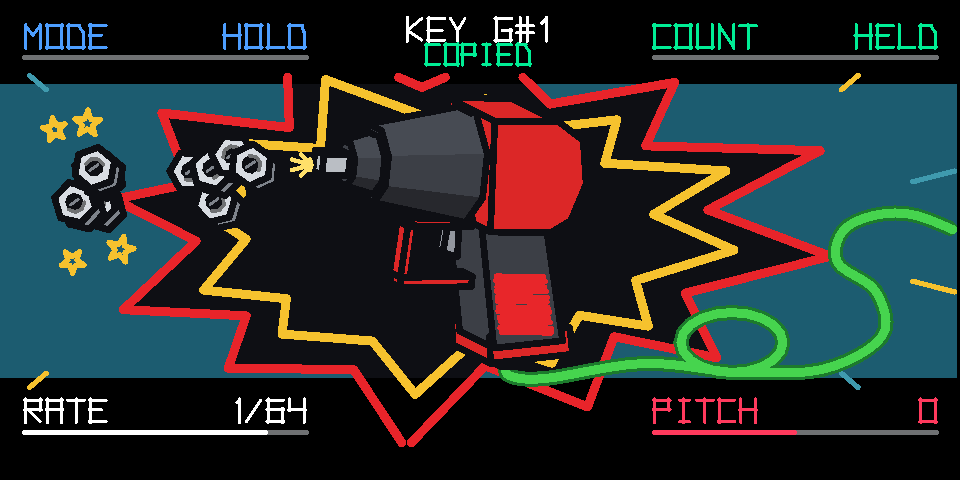
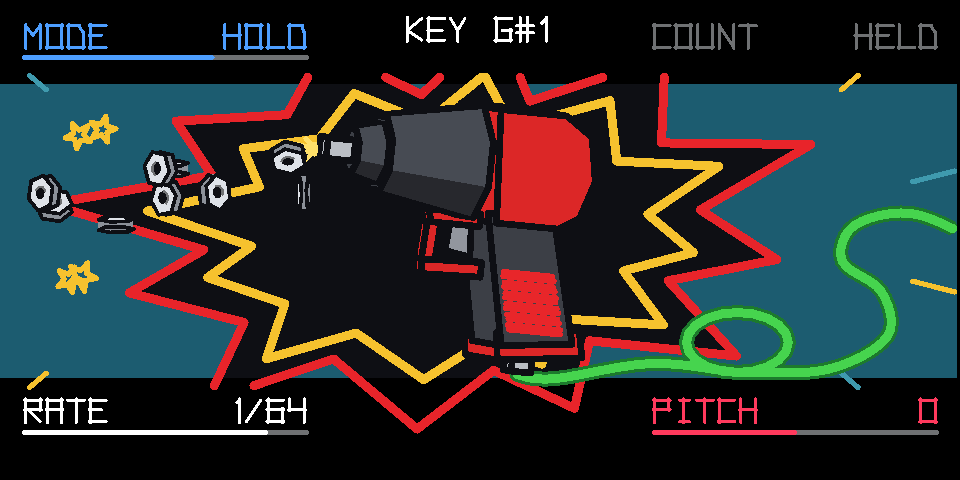
UZ-1 0.2.1: tumbling nuts, a tighter trigger guard, brief copy/paste notes
- The nuts tumble as they fly: a four-frame flip book (face on, at an
  angle, edge on, at the other angle), each about its own axis, in its own
  direction and speed. One size for all, with lighter outlines.
- The trigger guard is smaller and chunkier around a bigger trigger, with
  a sliver of background showing between them.
- COPIED (with the key) and PASTED show for 1.5 s, then clear; COPIED
  used to stay on screen for good.

Changed region(s): [[0.0312, 0.0625, 1.0, 0.9375], [0.6562, 0.0312, 1.0, 0.125], [0.0312, 0.0938, 0.2188, 0.125]]

diff --git a/plugin/uz1/uz1.c b/plugin/uz1/uz1.c
@@ -254,6 +254,8 @@ static voice_t tv[OP1_VOICES];
 static uint32_t stamp_next = 1;
 static volatile uint8_t sel;                  /* the page shown: the last key played */
 static volatile uint8_t have_clip, clip_key;     /* a key copied (blue push), which one */
+static volatile uint8_t note_kind;               /* the last copy (1) or paste (2), for the screen's brief note */
+static volatile uint32_t note_seq;
 static volatile uint32_t clip;
 
 /* for the screen: every hit (its gain and pitch) into a ring, and how many hits the newest pattern has left */
@@ -483,8 +485,8 @@ static int uz_input(int page, int ev, int a, int b)
                     if (s > 7) s = SRC_AUTO;
                     snd.src = (uint8_t)s; changed = 1; src_force = 1;
                 }
-            } else if (a == 0) { clip = snd.cfg[k]; clip_key = (uint8_t)k; have_clip = 1; }   /* blue: copy this key */
-            else if (a == 1) { if (have_clip) { snd.cfg[k] = clip; changed = 1; } }        /* green: paste over it */
+            } else if (a == 0) { clip = snd.cfg[k]; clip_key = (uint8_t)k; have_clip = 1; note_kind = 1; note_seq++; }   /* blue: copy */
+            else if (a == 1) { if (have_clip) { snd.cfg[k] = clip; changed = 1; note_kind = 2; note_seq++; } }          /* green: paste */
             else if (a == 3 && shift) { snd.cfg[k] = CFG_DEFAULT; changed = 1; }
         }
         if (changed) sound_store(slot);
@@ -662,7 +664,7 @@ static void labels(void *r, const char *const name[4], char txt[4][12], const in
 static uint32_t hash_str(uint32_t h, const char *s) { while (*s) h = (h ^ (uint8_t)*s++) * 16777619u; return (h ^ 0xFF) * 16777619u; }
 
 /* ---- the bolts in flight ---- */
-typedef struct { int32_t x, y, vx, vy, r; int16_t a, va; uint8_t on; } bolt_t;
+typedef struct { int32_t x, y, vx, vy, r; int16_t a, va, tt, tp; uint8_t on, frame, axis; int8_t dir; } bolt_t;   /* tt, tp: ms into the frame, ms a frame */
 static bolt_t bolts[24];
 static uint32_t seen_w, rnd = 1;
 static int32_t recoil, flash;                 /* Q10 px; ms */
@@ -670,33 +672,46 @@ static uint32_t wig_a, wig_b, wig_ta, wig_tb; /* the wiggle's phases and where t
 static int32_t fire_e, shake_x, shake_y;     /* how hard it is firing (Q10, decays), the shake (Q10 px) */
 static volatile int vis_bolts;                /* for the tests */
 static inline int32_t rnd_px(int32_t span) { rnd = rnd * 1664525u + 1013904223u; return (int32_t)((rnd >> 16) % (uint32_t)(2 * span + 1)) - span; }
-/* a cartoon hex nut, tumbling: its back face (thickness, toward the lower right), the lit front face, thick ink,
- * and the threaded hole: dark, with a highlight on its far rim and one turn of thread */
+/* a cartoon hex nut, tumbling as a four-frame flip book: face on, at an angle (its side showing one way), edge on,
+ * at an angle the other way, and round again, about its own axis (sideways or end over end) and in its own direction
+ * and speed, picked as it's fired. A frame: the face squashed across the tumble (Q10) and the thickness showing
+ * beside it (Q10 of the radius, + one way, - the other). Drawn as the back face and the sides, then the lit front
+ * face, ink, and the threaded hole (dark, a lit rim inside; hidden edge on) */
+static const int16_t NUT_FRAME[4][2] = {
+    { 1024,    0 },                           /* face on */
+    {  720,  430 },                           /* at an angle, the side showing */
+    {  170,  600 },                           /* edge on */
+    {  720, -430 },                           /* at an angle, the other side showing */
+};
 static void bolt_draw(void *r, const bolt_t *b)
 {
-    static const uint8_t NUT_LIT[4] = { 0xD8, 0xDC, 0xE2, 0xFF }, NUT_SIDE[4] = { 0x7E, 0x83, 0x8B, 0xFF };
-    const int32_t rr = b->r, ox = rr * 2 / 5, oy = rr * 3 / 10;
+    static const uint8_t NUT_LIT[4] = { 0xDE, 0xE2, 0xE8, 0xFF }, NUT_SIDE[4] = { 0x8C, 0x91, 0x99, 0xFF };
+    const int16_t *v = NUT_FRAME[b->frame & 3];
+    const int32_t rr = b->r, sq = rr * v[0] >> 10, th = rr * v[1] >> 10;
+    const int32_t rx = b->axis ? rr : sq, ry = b->axis ? sq : rr;           /* axis 0: turns sideways, 1: end over end */
+    const int32_t ox = b->axis ? 0 : th, oy = b->axis ? th : 0;
     op1_pt f[6], k[6];
     for (int i = 0; i < 6; i++) {
         const int32_t t = b->a + i * 8192 / 6;
-        f[i].x = b->x + ((rr * tcos(t)) >> 15); f[i].y = b->y + ((rr * tsin(t)) >> 15);
+        f[i].x = b->x + ((rx * tcos(t)) >> 15); f[i].y = b->y + ((ry * tsin(t)) >> 15);
         k[i].x = f[i].x + ox; k[i].y = f[i].y + oy;
     }
-    fill_poly(k, 6, NUT_SIDE);
-    for (int i = 0; i < 6; i++) {                             /* the side between the faces */
-        const op1_pt q[4] = { f[i], f[(i + 1) % 6], k[(i + 1) % 6], k[i] };
-        fill_poly(q, 4, NUT_SIDE);
+    if (th) {
+        fill_poly(k, 6, NUT_SIDE);
+        for (int i = 0; i < 6; i++) {                         /* the sides between the faces */
+            const op1_pt q[4] = { f[i], f[(i + 1) % 6], k[(i + 1) % 6], k[i] };
+            fill_poly(q, 4, NUT_SIDE);
+        }
+        for (int i = 0, j = 5; i < 6; j = i++) op1_raster_line(r, &k[j], &k[i], 0x500, COL_INK);   /* the back's edge */
     }
-    for (int i = 0, j = 5; i < 6; j = i++) op1_raster_line(r, &k[j], &k[i], 0x900, COL_INK);
     fill_poly(f, 6, NUT_LIT);
-    for (int i = 0, j = 5; i < 6; j = i++) op1_raster_line(r, &f[j], &f[i], 0x900, COL_INK);
-    op1_pt h[8];                                               /* the hole */
-    const int32_t hr = rr * 9 / 20;
-    for (int i = 0; i < 8; i++) { const int32_t t = b->a + i * 1024; h[i].x = b->x + ((hr * tcos(t)) >> 15); h[i].y = b->y + ((hr * tsin(t)) >> 15); }
+    for (int i = 0, j = 5; i < 6; j = i++) op1_raster_line(r, &f[j], &f[i], 0x500, COL_INK);
+    if (v[0] < 400) return;                                    /* edge on: no hole to see */
+    op1_pt h[8];
+    const int32_t hx = rx * 3 / 8, hy = ry * 3 / 8;
+    for (int i = 0; i < 8; i++) { const int32_t t = b->a + i * 1024; h[i].x = b->x + ((hx * tcos(t)) >> 15); h[i].y = b->y + ((hy * tsin(t)) >> 15); }
     fill_poly(h, 8, COL_INK);
-    for (int i = 5; i < 8; i++) op1_raster_line(r, &h[i], &h[(i + 1) & 7], 0x500, COL_GREY);   /* the lit rim inside */
-    const op1_pt t0 = { b->x - hr / 2, b->y + hr / 4 }, t1 = { b->x + hr / 3, b->y - hr / 3 };
-    op1_raster_line(r, &t0, &t1, 0x400, NUT_SIDE);                                             /* a thread */
+    for (int i = 5; i < 8; i++) op1_raster_line(r, &h[i], &h[(i + 1) & 7], 0x300, COL_GREY);   /* the lit rim inside */
 }
 
 /* ---- the wrench: a small 3D model, drawn as a cartoon ----
@@ -771,10 +786,10 @@ static void lathe_x(int x0, int x1, int cy, int r0, int r1, int sides, int a0, i
 }
 static const int8_t P_HOUSING[] = { 0, -42, 34, -42, 48, -33, 52, -12, 46, 6, 36, 12, 4, 12 };
 static const int8_t P_GRIP[]    = { 2, 8, 36, 8, 52, 66, 16, 70 };
-static const int8_t P_GUARD_T[] = { -30, 10, 4, 10, 4, 14, -28, 14 };          /* the trigger guard: top, */
-static const int8_t P_GUARD_F[] = { -30, 14, -25, 14, -26, 39, -31, 39 };      /* front, */
-static const int8_t P_GUARD_B[] = { -31, 39, 7, 38, 7, 43, -30, 44 };          /* bottom, the gap open */
-static const int8_t P_TRIGGER[] = { -8, 15, -2, 15, -1, 29, -9, 27 };
+static const int8_t P_GUARD_T[] = { -23, 9, 4, 9, 4, 15, -21, 15 };            /* the trigger guard: top, */
+static const int8_t P_GUARD_F[] = { -23, 15, -16, 15, -17, 33, -24, 33 };      /* front, */
+static const int8_t P_GUARD_B[] = { -24, 33, 7, 32, 7, 39, -23, 40 };          /* bottom, a sliver open */
+static const int8_t P_TRIGGER[] = { -11, 15, 0, 15, 1, 30, -12, 28 };
 static const int8_t P_BASE[]    = { 12, 64, 54, 59, 57, 72, 14, 77 };
 static const int8_t P_INLET[]   = { 28, 76, 38, 75, 38, 82, 28, 82 };
 static void mesh_build(void)
@@ -782,9 +797,9 @@ static void mesh_build(void)
     mvn = mfn = min_n = 0;
     prism_z(P_HOUSING, 7, -26, 26, C_RED);
     prism_z(P_GRIP, 4, -19, 19, C_BLACK);
-    prism_z(P_GUARD_T, 4, -6, 6, C_RED);
-    prism_z(P_GUARD_F, 4, -6, 6, C_RED);
-    prism_z(P_GUARD_B, 4, -6, 6, C_RED);
+    prism_z(P_GUARD_T, 4, -5, 5, C_RED);
+    prism_z(P_GUARD_F, 4, -5, 5, C_RED);
+    prism_z(P_GUARD_B, 4, -5, 5, C_RED);
     prism_z(P_TRIGGER, 4, -4, 4, C_GREY);
     prism_z(P_BASE, 4, -21, 21, C_RED);
     prism_z(P_INLET, 4, -5, 5, C_STEEL);
@@ -1112,10 +1127,16 @@ static void uz_screen_update(void *scr, int dt)
         txt[3][n] = 0; name[3] = "SLOPE"; val[3] = fget(c, K_SLOPE) * 32767 / 24;
         if (!field_live(c, K_SLOPE)) { txt[3][0] = '-'; txt[3][1] = 0; val[3] = -1; }
     }
+    /* a copy or a paste shows for 1.5 s */
+    static uint32_t note_seen;
+    static int32_t note_ms;
+    if (note_seq != note_seen) { note_seen = note_seq; note_ms = 1500; }
+    else if (note_ms > 0) note_ms -= dt;
     char title[12], status[16];
     { int n = put_str(title, 0, "KEY "); key_name(title + n, k); }
     if (!look.ok) status[put_str(status, 0, "NO SAMPLE")] = 0;
-    else if (have_clip) { int n = put_str(status, 0, "COPIED "); key_name(status + n, clip_key); }
+    else if (note_ms > 0 && note_kind == 1) { int n = put_str(status, 0, "COPIED "); key_name(status + n, clip_key); }
+    else if (note_ms > 0 && note_kind == 2) status[put_str(status, 0, "PASTED")] = 0;
     else status[0] = 0;
 
     uint32_t lh = 2166136261u;
@@ -1174,8 +1195,13 @@ static void uz_screen_update(void *scr, int dt)
         b->on = 1; b->x = tip.x - PX(4); b->y = tip.y + rnd_px(1024);
         b->vx = -PX(300) + rnd_px(PX(40));
         b->vy = -hv.h * PX(9) + rnd_px(PX(15));
-        b->r = PX(3) + ((PX(4) >> 5) * (hv.g >> 5) >> 5);         /* 3 .. 7 px, by the hit's gain */
-        b->a = (int16_t)rnd_px(4096); b->va = (int16_t)(rnd_px(30) - 40);
+        rnd = rnd * 1664525u + 1013904223u;
+        b->r = PX(6);                                          /* all one size; its own tumble: */
+        b->frame = (uint8_t)(rnd >> 30);                       /* where in it, */
+        b->axis = (uint8_t)((rnd >> 29) & 1);                  /* about which axis, */
+        b->dir = (int8_t)((rnd >> 28) & 1 ? 1 : -1);           /* which way, */
+        b->tp = (int16_t)(35 + ((rnd >> 20) & 31)); b->tt = 0;  /* and how fast: 35 .. 66 ms a frame */
+        b->a = (int16_t)rnd_px(4096); b->va = (int16_t)rnd_px(12);
         recoil = PX(5); flash = 40;
         bang_bg = 250; bang_pop = 90; bang_new();
     }
@@ -1187,6 +1213,8 @@ static void uz_screen_update(void *scr, int dt)
         b->vy += PX(240) * dt / 1000;
         b->y += b->vy * dt / 1000;
         b->a = (int16_t)(b->a + b->va * dt);
+        for (b->tt = (int16_t)(b->tt + dt); b->tt >= b->tp; b->tt = (int16_t)(b->tt - b->tp))   /* the next frame */
+            b->frame = (uint8_t)((b->frame + b->dir) & 3);
         const int32_t m = b->r * 3 / 2 + PX(2);
         if (b->x - m < PX(2) || b->y - m < PX(BAND_Y0 + 1) || b->y + m > PX(BAND_Y1 - 1)) { b->on = 0; continue; }
         nb++;

diff --git a/test/uz1_test.c b/test/uz1_test.c
@@ -469,6 +469,15 @@ int main(int argc, char **argv)
     CHECK(stored_cfg(0, 2) == clip, "green push pastes it over the shown key, at once, all of it");
     play_key(11); push(OP1_ENG_T1, 1, 0);
     CHECK(stored_cfg(0, 11) == clip && stored_cfg(0, 4) == CFG_DEFAULT, "and again on the next key; keys not pasted on stay as they were");
+    { /* the screen's note: COPIED, then PASTED, each for 1.5 s, then nothing */
+      unsigned h0, h1, h2, h3;
+      push(OP1_ENG_T1, 0, 0); frame("copied"); h0 = text_hash();
+      for (int i = 0; i < 120; i++) frame("copied, later");
+      h1 = text_hash();
+      push(OP1_ENG_T1, 1, 0); frame("pasted"); h2 = text_hash();
+      for (int i = 0; i < 120; i++) frame("pasted, later");
+      h3 = text_hash();
+      CHECK(h0 != h1 && h2 != h1 && h2 != h0 && h3 == h1, "COPIED and PASTED show briefly, then the top is clear again"); }
     push(OP1_ENG_T1, 3, 1);
     CHECK(stored_cfg(0, 11) == CFG_DEFAULT && stored_cfg(0, 2) == clip, "Shift + orange push resets the shown key only");
     CHECK(push(OP1_ENG_T1, 3, 0) == 1 && stored_cfg(0, 11) == CFG_DEFAULT, "orange push without Shift does nothing (but is taken)");
@@ -509,7 +518,13 @@ int main(int argc, char **argv)
     { /* the most violent it gets: a held 1/64 for 3 s, a frame every 16 ms */
       all_keys(kcfg(M_HOLD, 0, 6, 0, 0, V_FLAT, 0, 15, 15)); put_sound(0, SRC_AUTO, 0, 100, 0, 0, C24);
       reset(); on(0, page_midi(3), 127); int esc3 = 0;
-      for (int i = 0; i < 190; i++) { run_ms(16); frame(i == 40 ? "held 1/64: thrashing" : "held 1/64"); esc3 += band_escapes(); }
+      int flips = 0, ways = 0, axes = 0;
+      for (int i = 0; i < 190; i++) {
+          uint8_t before[24]; for (int j = 0; j < 24; j++) before[j] = bolts[j].frame;
+          run_ms(16); frame(i == 40 ? "held 1/64: thrashing" : "held 1/64"); esc3 += band_escapes();
+          for (int j = 0; j < 24; j++) if (bolts[j].on && bolts[j].frame != before[j]) flips++;
+          for (int j = 0; j < 24; j++) if (bolts[j].on) { ways |= bolts[j].dir > 0 ? 1 : 2; axes |= 1 << bolts[j].axis; } }
+      CHECK(flips > 100 && ways == 3 && axes == 3, "the nuts tumble (%d frame flips), both ways, about both axes", flips);
       off(0); run_ms(300); for (int i = 0; i < 40; i++) frame("calming down");
       CHECK(esc3 == 0, "a held 1/64 for 3 s: the thrashing wrench stays inside its areas (%d out)", esc3);
       CHECK(fire_e == 0, "and it calms down after"); }

diff --git a/README.md b/README.md
@@ -70,7 +70,7 @@ velocity (MIDI, the sequencers, or the keyvel feature) scales it all.
 **SLOPE** moves the pitch hit by hit: a sinker (−) drops each repeat, a riser (+) climbs, up to 24 semitones.
 
 **Copy and paste:** push blue to copy the shown key's settings, play another key, push green: its settings are
-replaced by the copy, all of them, at once. The top of the screen says which key is copied.
+replaced by the copy, all of them, at once. The top of the screen flashes COPIED (with the key) or PASTED.
 
 A setting the key's mode doesn't use is grey with no gauge, and its knob does nothing: COUNT and RATE for ONE (and
 SLOPE, with a single hit), COUNT for HOLD, RATE for FLAM.

diff --git a/CHANGELOG.md b/CHANGELOG.md
@@ -1,5 +1,14 @@
 # Changelog
 
+## 0.2.1 — 2026-11-18
+
+- COPIED (with the key) and PASTED show for 1.5 s, then clear; COPIED used to stay up for good.
+- The trigger guard is smaller and chunkier (bars 7 to 8 px instead of 5) around a bigger trigger, with a sliver
+  open between them.
+- The nuts tumble: a four-frame flip book (face on, at an angle, edge on, at the other angle), each nut about
+  its own axis (sideways or end over end), in its own direction and speed. All one size now, a little bigger, with
+  lighter outlines.
+
 ## 0.2.0 — 2026-11-18
 
 - Firing is more violent: every hit throws the wrench further round (a fifth of its turn, a quarter of its nod),
